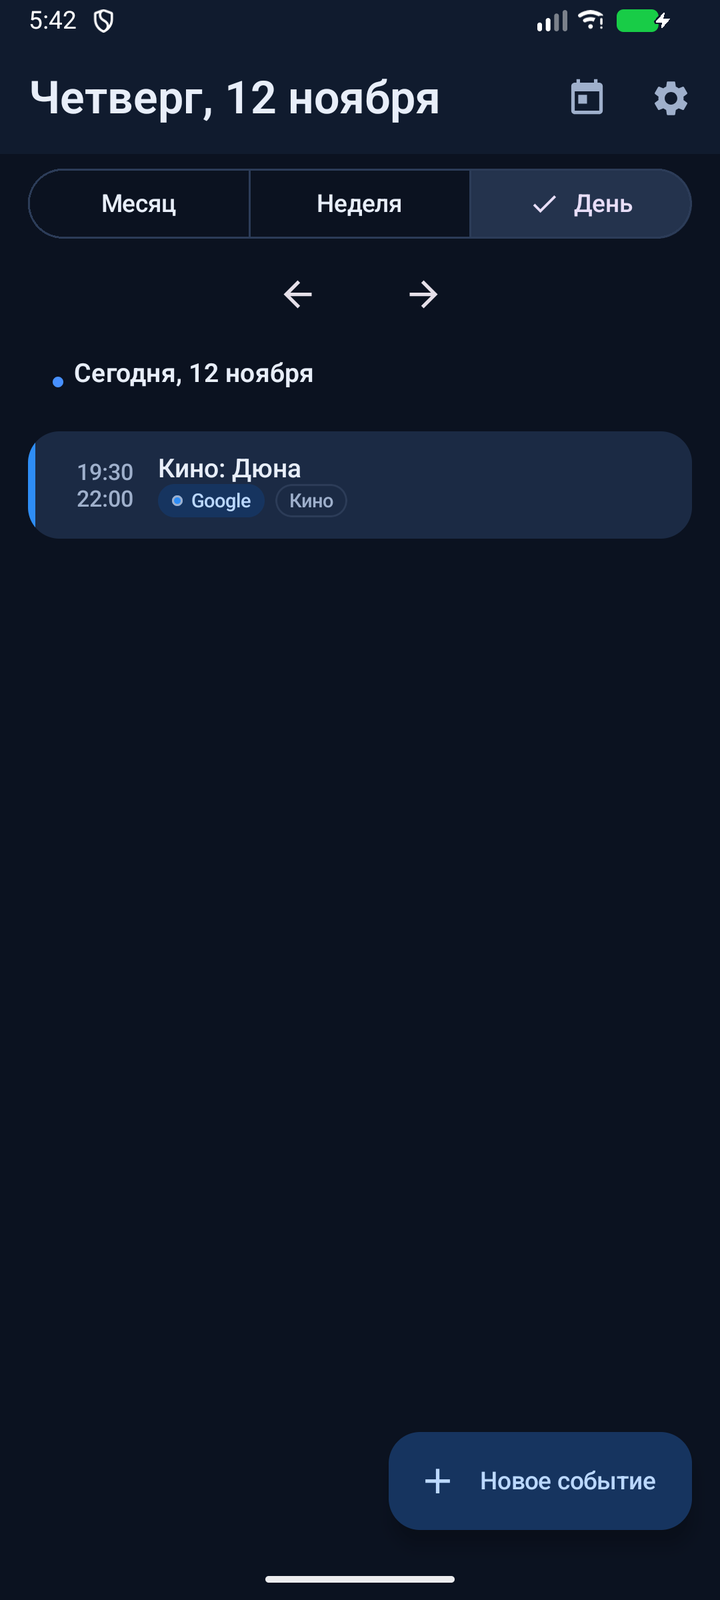
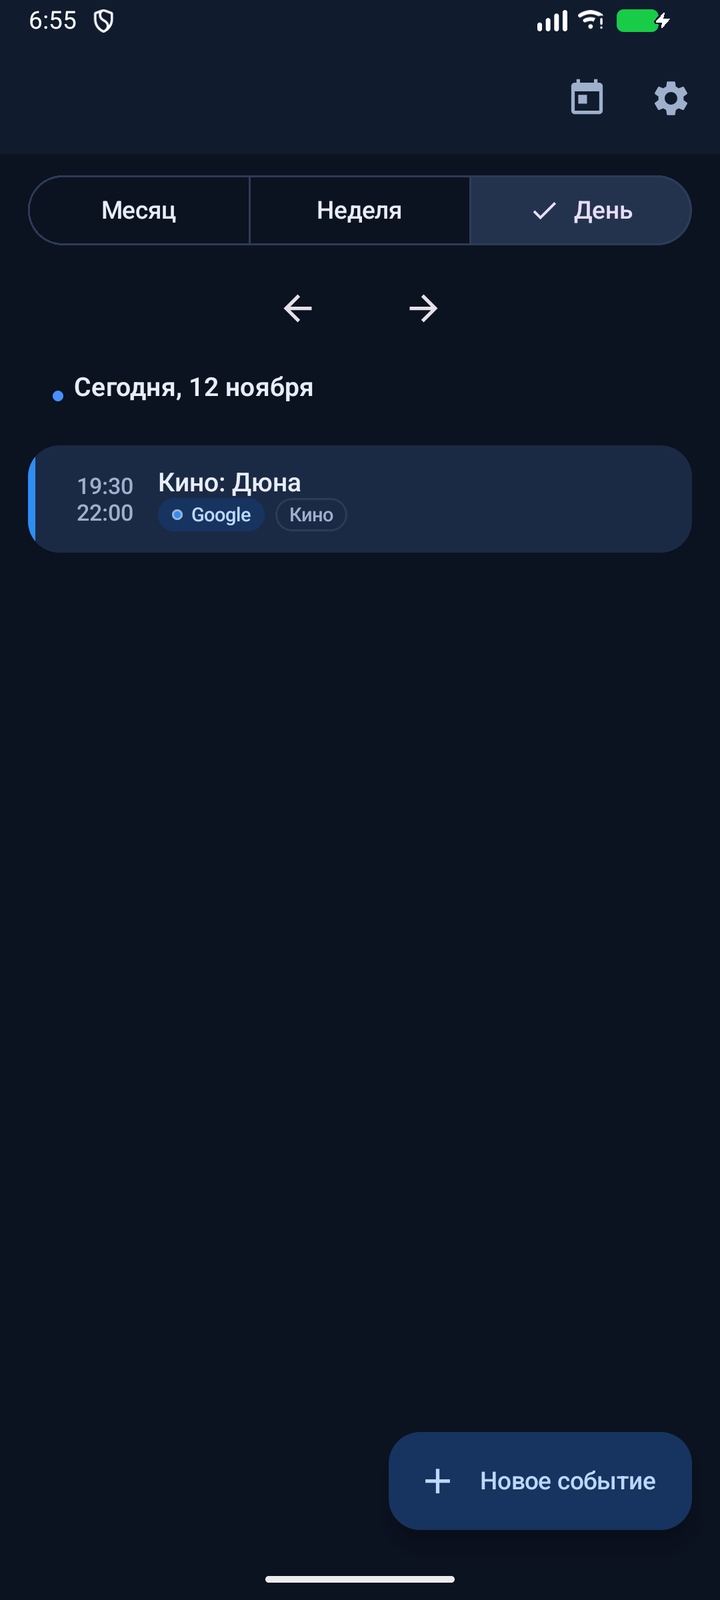
fix(calendar): шапка недели на стыке месяцев и дата только в заголовке дня
- weekTitle именует оба месяца и года на стыке («26 октября – 1 ноября 2026»),
  а длинный заголовок ужимается до 12sp в одну строку вместо переноса года;
- сегменты «Месяц/Неделя/День» — heightIn вместо height, подписи не режутся
  при системном крупном шрифте;
- в виде «День» дата убрана из TopAppBar: она дублировала заголовок дня,
  кадр README обновлён, в спеке зафиксирована ревизия 12.11.2026;
- WeekTitleTest +2 (стыки месяца и года), JVM 138/0, lint 16 предупреждений.

diff --git a/app/src/main/java/com/example/mycalendar/presentation/calendar/CalendarScreen.kt b/app/src/main/java/com/example/mycalendar/presentation/calendar/CalendarScreen.kt
@@ -11,11 +11,12 @@ import androidx.compose.foundation.layout.Spacer
 import androidx.compose.foundation.layout.aspectRatio
 import androidx.compose.foundation.layout.fillMaxSize
 import androidx.compose.foundation.layout.fillMaxWidth
-import androidx.compose.foundation.layout.height
+import androidx.compose.foundation.layout.heightIn
 import androidx.compose.foundation.layout.padding
 import androidx.compose.foundation.layout.width
 import androidx.compose.foundation.lazy.LazyColumn
 import androidx.compose.foundation.lazy.items
+import androidx.compose.foundation.text.TextAutoSize
 import androidx.compose.material.icons.Icons
 import androidx.compose.material.icons.automirrored.filled.ArrowBack
 import androidx.compose.material.icons.automirrored.filled.ArrowForward
@@ -48,10 +49,10 @@ import androidx.compose.ui.unit.dp
 import androidx.hilt.lifecycle.viewmodel.compose.hiltViewModel
 import com.example.mycalendar.R
 import com.example.mycalendar.domain.holiday.DayMark
+import com.example.mycalendar.presentation.common.dayTitleFormatter
 import com.example.mycalendar.presentation.common.monthGenitiveFormatter
 import com.example.mycalendar.presentation.common.monthTitleFormatter
 import com.example.mycalendar.presentation.common.russianLocale
-import com.example.mycalendar.presentation.common.weekdayTitleFormatter
 import com.example.mycalendar.presentation.components.DayHeader
 import com.example.mycalendar.presentation.components.EmptyState
 import com.example.mycalendar.presentation.components.EventCard
@@ -67,6 +68,7 @@ import com.example.mycalendar.presentation.components.dayMarkTag
 import com.example.mycalendar.presentation.theme.AppShapes
 import com.example.mycalendar.presentation.theme.AppSizes
 import com.example.mycalendar.presentation.theme.AppSpacing
+import com.example.mycalendar.presentation.theme.HeaderTypography
 import com.example.mycalendar.presentation.theme.dayMarkColor
 import java.time.DayOfWeek
 import java.time.LocalDate
@@ -93,7 +95,24 @@ fun CalendarScreen(
     Scaffold(
         topBar = {
             TopAppBar(
-                title = { Text(text = headerTitle(state), style = MaterialTheme.typography.headlineMedium) },
+                title = {
+                    // В виде «День» дата уже стоит в заголовке дня (DayHeader) — верхняя строка
+                    // её только дублировала, поэтому шапка в этом режиме остаётся без подписи.
+                    headerTitle(state)?.let { title ->
+                        val style = MaterialTheme.typography.headlineMedium
+                        // Неделя на стыке месяцев («26 октября – 1 ноября 2026») длиннее обычной:
+                        // вместо переноса года на вторую строку кегль ужимается в этих пределах.
+                        Text(
+                            text = title,
+                            style = style,
+                            maxLines = 1,
+                            autoSize = TextAutoSize.StepBased(
+                                minFontSize = HeaderTypography.titleMinSize,
+                                maxFontSize = style.fontSize,
+                            ),
+                        )
+                    }
+                },
                 actions = {
                     if (quietMode) {
                         IconButton(
@@ -147,7 +166,9 @@ fun CalendarScreen(
                     SegmentedButton(
                         selected = state.viewMode == mode,
                         onClick = { viewModel.setViewMode(mode) },
-                        modifier = Modifier.height(AppSizes.segmentedHeight),
+                        // heightIn, а не height: при системном «Крупный текст» подпись
+                        // выше 40 dp, и фиксированная высота обрезает её сверху и снизу.
+                        modifier = Modifier.heightIn(min = AppSizes.segmentedHeight),
                         shape = SegmentedButtonDefaults.itemShape(index = index, count = modes.size),
                     ) { Text(label) }
                 }
@@ -418,18 +439,29 @@ private fun EventList(events: List<EventOccurrence>, onEventClick: (String) -> U
     }
 }
 
-/** Заголовок TopAppBar по режиму: «Сентябрь 2026» / «1 – 7 сентября» / «5 сентября, суббота». */
+/**
+ * Заголовок TopAppBar по режиму: «Сентябрь 2026» / «1 – 7 сентября».
+ * В виде «День» подписи нет: дату показывает заголовок дня.
+ */
 @Composable
-private fun headerTitle(state: CalendarUiState): String = when (state.viewMode) {
+private fun headerTitle(state: CalendarUiState): String? = when (state.viewMode) {
     CalendarViewMode.MONTH -> monthTitle(state.visibleMonth)
     CalendarViewMode.WEEK -> weekTitle(state.selectedDate.with(DayOfWeek.MONDAY))
-    CalendarViewMode.DAY -> fullDateTitle(state.selectedDate)
+    CalendarViewMode.DAY -> null
 }
 
-/** «9 – 15 ноября 2026» — месяц в родительном падеже, как в подписи дня. */
+/**
+ * «9 – 15 ноября 2026» — месяц в родительном падеже, как в подписи дня.
+ * На стыке месяцев общий месяц не выводится: «26 октября – 1 ноября 2026»,
+ * иначе «26 – 1 ноября» читается как ноябрь–декабрь.
+ */
 internal fun weekTitle(weekStart: LocalDate): String {
     val end = weekStart.plusDays(6)
-    return "${weekStart.dayOfMonth} – ${end.dayOfMonth} ${end.format(monthGenitiveFormatter)} ${end.year}"
+    return if (weekStart.month == end.month) {
+        "${weekStart.dayOfMonth} – ${end.dayOfMonth} ${end.format(monthGenitiveFormatter)} ${end.year}"
+    } else {
+        "${weekStart.format(dayTitleFormatter)} – ${end.format(dayTitleFormatter)} ${end.year}"
+    }
 }
 
 /** Сокращённые названия дней недели ровно по три буквы: пн..вс. */
@@ -448,6 +480,3 @@ private fun dayShortName(dayOfWeek: DayOfWeek): String =
 
 private fun monthTitle(date: LocalDate): String =
     date.format(monthTitleFormatter).replaceFirstChar { it.uppercase(russianLocale) }
-
-private fun fullDateTitle(date: LocalDate): String =
-    date.format(weekdayTitleFormatter).replaceFirstChar { it.uppercase(russianLocale) }

diff --git a/app/src/test/java/com/example/mycalendar/presentation/calendar/WeekTitleTest.kt b/app/src/test/java/com/example/mycalendar/presentation/calendar/WeekTitleTest.kt
@@ -20,4 +20,15 @@ class WeekTitleTest {
         // Неделя 2–8 марта 2026: обе границы в одном месяце, регистр месяца — строчный.
         assertEquals("2 – 8 марта 2026", weekTitle(LocalDate.of(2026, 3, 2)))
     }
+
+    @Test
+    fun `week title names both months when the week crosses a month`() {
+        // «26 – 1 ноября» читается как ноябрь–декабрь, поэтому месяц нужен у обеих границ.
+        assertEquals("26 октября – 1 ноября 2026", weekTitle(LocalDate.of(2026, 10, 26)))
+    }
+
+    @Test
+    fun `week title names both years when the week crosses a year`() {
+        assertEquals("28 декабря – 3 января 2027", weekTitle(LocalDate.of(2026, 12, 28)))
+    }
 }

diff --git a/app/src/main/java/com/example/mycalendar/presentation/theme/Type.kt b/app/src/main/java/com/example/mycalendar/presentation/theme/Type.kt
@@ -59,6 +59,16 @@ val Typography = Typography(
     ),
 )
 
+/**
+ * Шапка экрана. Верхняя граница кегля — headlineMedium; длинный заголовок недели
+ * («26 октября – 1 ноября 2026») ужимается до titleMinSize вместо переноса года
+ * на вторую строку. Нижняя граница рассчитана на системный шрифт 200 %: при 20sp
+ * кегль уже не ужимался, и год обрезался без всякого признака обрезки.
+ */
+object HeaderTypography {
+    val titleMinSize = 12.sp
+}
+
 /** Стили карточки события: название, колонка времени, чип. */
 object CardTypography {
     val title: TextStyle = TextStyle(

diff --git a/README.md b/README.md
@@ -166,16 +166,16 @@ keyPassword=...
 
 ## Тесты
 
-- **136 JVM-тестов** — решатель конфликтов, репозитории на фейках, CalDAV-клиент против локального
+- **138 JVM-тестов** — решатель конфликтов, репозитории на фейках, CalDAV-клиент против локального
   mock-сервера (`MiniCalDavServer`), OAuth, планировщик напоминаний, сравнение версий и разбор
   ответа GitHub Releases; тонирование выходных и праздников покрыто реестром праздников
   (`HolidayRegistryTest`, 7), тоном дня (`DayMarkToneTest`, 2), контрастом пар палитры
   (`PaletteContrastTest`, 7 — из них 3 теста добавлены этой серией) и границами сетки
   (`CalendarUiStateTest`, 4); сигнал напоминания и признак дня рождения — `BirthdayCalendarTest` (7)
   и `ReminderSoundPolicyTest` (6), имя коллекции из ответа источника — `YandexCalendarDataSourceTest`
-  (6, из них 1 — `calendarName`); текст шапки недели — `WeekTitleTest` (2) и форма счётчика
-  спорных полей — `ContestedFieldsLabelTest` (3);
-  итог 136 и 0 падений сняты с отчёта `testDebugUnitTest` (замер 12.11.2026);
+  (6, из них 1 — `calendarName`); текст шапки недели — `WeekTitleTest` (4, включая недели
+  на стыке месяцев и лет) и форма счётчика спорных полей — `ContestedFieldsLabelTest` (3);
+  итог 138 и 0 падений сняты с отчёта `testDebugUnitTest` (замер 12.11.2026);
 - **75 instrumented-тестов** — Room-миграции, сквозные сценарии синхронизации на настоящей базе,
   экраны конфликтов, уведомления и действия, системный календарь, переиспользование OAuth-токена,
   сверка подписи скачанного APK на устройстве, карточки события и недельного вида, тон и

diff --git a/docs/superpowers/specs/2026-11-01-android-visual-language-design.md b/docs/superpowers/specs/2026-11-01-android-visual-language-design.md
@@ -265,6 +265,9 @@ WeekEventCell(occurrence, onClick)                              // строка 
 каждом перекрытом дне» остаётся в наборе как регрессия.
 Шапка, сегменты `Месяц/Неделя/День` и FAB меняются только по
 токенам (`Sizes.segmentedHeight`, `Shapes.card` у FAB), поведение и навигация не трогаются.
+Ревизия 2026-11-12: в виде «День» дата убрана из шапки экрана — она дублировала строку
+`DayHeader` сразу под переключателем и осталась только там; заголовки месяца и недели в шапке
+не меняются.
 
 **Прочие экраны** (`event/`, `auth/`, `settings/`, `conflict/`) получают новую палитру через
 `MaterialTheme`; точечно правим только карточки: `EventDetailsScreen.kt:249` (та же
